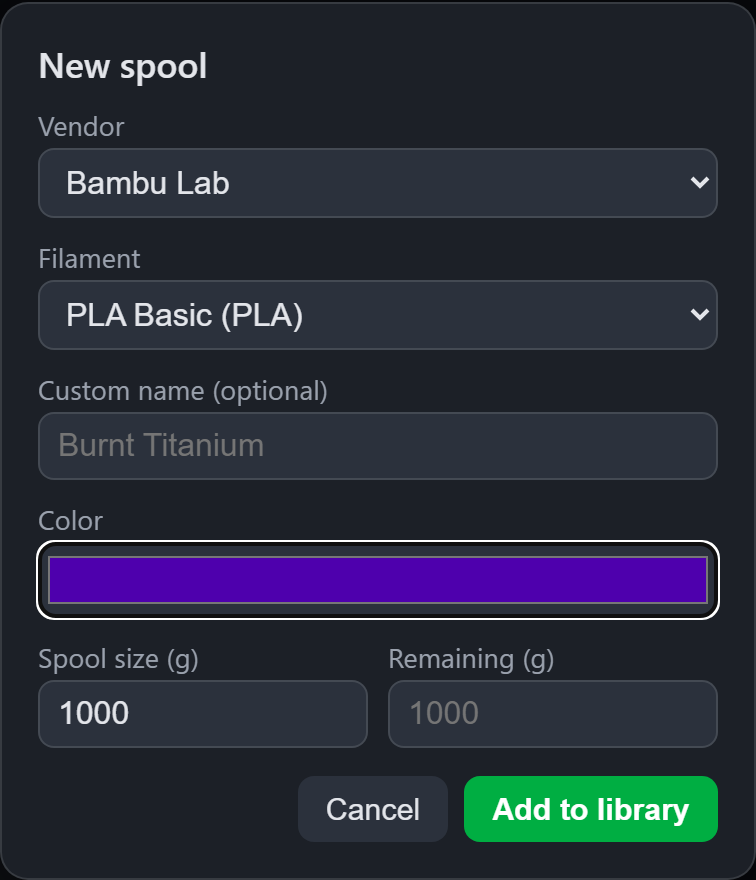
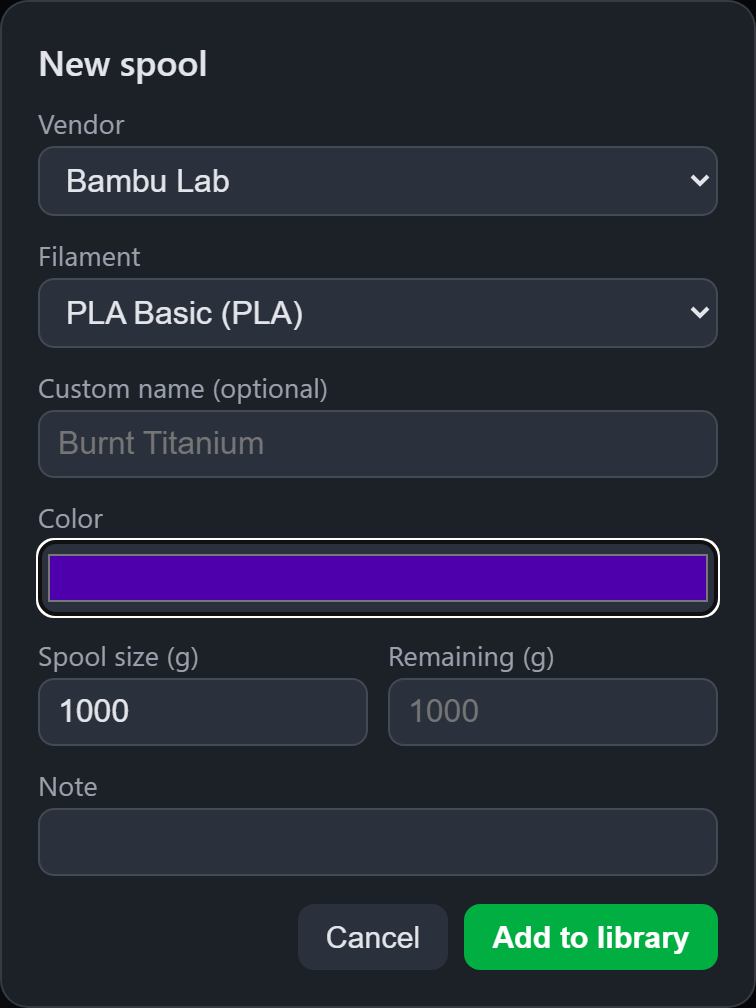
create_spool: accept a note (written right after creation)
The create endpoint 400s on a note field, so the service re-fetches
the library after the POST, picks the newest matching spool id that
did not exist before the create, and writes the note with a minimal
PUT. The card add dialog now shows the note field in create mode too
(it appears as the spool remark in Bambu Studio).

diff --git a/custom_components/bambu_filaments/www/bambu-filaments-card.js b/custom_components/bambu_filaments/www/bambu-filaments-card.js
@@ -508,7 +508,7 @@ class BambuFilamentsCard extends HTMLElement {
             <label>${t.d_total}<input id="f-total" type="number" min="1" value="${isEdit ? (spool.total_g ?? 1000) : 1000}"/></label>
             <label>${t.d_remaining}<input id="f-remaining" type="number" min="0" placeholder="1000" value="${isEdit ? (spool.remaining_g ?? "") : ""}"/></label>
           </div>
-          ${isEdit ? `<label>${t.d_note}<input id="f-note" type="text" value="${esc(spool.note || "")}"/></label>` : ""}
+          <label>${t.d_note}<input id="f-note" type="text" value="${isEdit ? esc(spool.note || "") : ""}"/></label>
           <div class="derr" hidden></div>
           <div class="dbtns">
             ${isEdit ? `<button class="dlg-del">${t.d_delete}</button>` : ""}
@@ -618,6 +618,7 @@ class BambuFilamentsCard extends HTMLElement {
       btn.textContent = t.d_saving;
       try {
         if (!isEdit) {
+          if (val("f-note")) data.note = val("f-note");
           await this._hass.callService("bambu_filaments", "create_spool", data);
         } else {
           // Send only the fields that actually changed (minimal PUT, like

diff --git a/custom_components/bambu_filaments/services.py b/custom_components/bambu_filaments/services.py
@@ -2,6 +2,7 @@
 
 from __future__ import annotations
 
+import logging
 from collections.abc import Iterable
 from typing import Any
 
@@ -24,6 +25,8 @@ SERVICE_UPDATE_SPOOL = "update_spool"
 SERVICE_CREATE_SPOOL = "create_spool"
 SERVICE_DELETE_SPOOL = "delete_spool"
 SERVICE_GET_CATALOG = "get_catalog"
+
+_LOGGER = logging.getLogger(__name__)
 
 # 6-digit hex, optionally with alpha and/or leading '#'.
 COLOR_SCHEMA = vol.All(
@@ -62,6 +65,7 @@ CREATE_SPOOL_SCHEMA = vol.Schema(
         vol.Optional("remaining_g"): vol.All(vol.Coerce(int), vol.Range(min=0, max=20000)),
         vol.Optional("filament_id"): cv.string,
         vol.Optional("display_name"): cv.string,
+        vol.Optional("note"): cv.string,
     }
 )
 DELETE_SPOOL_SCHEMA = vol.Schema({vol.Required("spool_id"): cv.positive_int})
@@ -231,6 +235,7 @@ def async_register_services(hass: HomeAssistant) -> None:
         payload["filamentId"] = filament_id or ""
         if display_name := call.data.get("display_name"):
             payload["displayName"] = display_name
+        known_ids = set((coordinator.data or {}).keys())
         await _cloud_write(
             hass,
             coordinator,
@@ -238,6 +243,36 @@ def async_register_services(hass: HomeAssistant) -> None:
             payload,
             action="Bambu cloud rejected the new spool",
         )
+        if note := call.data.get("note"):
+            # The create endpoint 400s on a note field, so the note is written
+            # with a follow-up PUT onto the just-created spool: re-fetch and
+            # pick the newest matching id we did not know before the create.
+            try:
+                spools = await hass.async_add_executor_job(coordinator.client.get_spools)
+                created = [
+                    s
+                    for s in spools
+                    if isinstance(s.get("id"), int)
+                    and s["id"] not in known_ids
+                    and s.get("filamentVendor") == payload["filamentVendor"]
+                    and s.get("filamentName") == payload["filamentName"]
+                ]
+                if created:
+                    target = max(created, key=lambda s: s["id"])
+                    await hass.async_add_executor_job(
+                        coordinator.client.update_spool,
+                        {
+                            "id": target["id"],
+                            "filamentName": target.get("filamentName") or "",
+                            "note": note,
+                        },
+                    )
+                else:
+                    _LOGGER.warning(
+                        "Spool was created but not found on re-fetch; note not set"
+                    )
+            except BambuCloudError as err:
+                _LOGGER.warning("Spool was created but setting its note failed: %s", err)
         await coordinator.async_request_refresh()
 
     async def handle_update_spool(call: ServiceCall) -> None:

diff --git a/tools/screenshots/take_shots.py b/tools/screenshots/take_shots.py
@@ -51,6 +51,7 @@ with sync_playwright() as pw:
     page.locator("#f-cmaterial").fill("PLA")
     page.locator("#f-cname").fill("PLA Pro")
     page.locator("#f-display").fill("Burnt Titanium")
+    page.locator("#f-note").fill("Burnt Titanium")
     page.wait_for_timeout(100)
     page.locator(".dlg").screenshot(path=str(OUT / "card-add-custom.png"))
     print("saved card-add-custom.png")

diff --git a/README.md b/README.md
@@ -85,7 +85,7 @@ Open the integration's *Configure* dialog:
 | `bambu_filaments.set_note` | `spool_id`, `note` | Set a spool's note text |
 | `bambu_filaments.set_filament_id` | `spool_id`, `filament_id` | Link a spool to a Bambu slicer profile (e.g. `GFA00` = Bambu PLA Basic, `GFL99` = Generic PLA) so Bambu Studio can assign it with matching print settings; `""` unlinks |
 | `bambu_filaments.update_spool` | `spool_id` + any of `vendor`, `material`, `name`, `color`, `total_g`, `remaining_g`, `note`, `filament_id`, `display_name` | Change fields of an existing spool — only the provided fields are written; empty strings clear custom name/note/profile |
-| `bambu_filaments.create_spool` | `vendor`, `material`, `name`, `color`, `total_g`, `remaining_g`, `filament_id`, `display_name` | Add a new spool to the cloud library (pass `filament_id: ""` for custom/third-party brands) |
+| `bambu_filaments.create_spool` | `vendor`, `material`, `name`, `color`, `total_g`, `remaining_g`, `filament_id`, `display_name`, `note` | Add a new spool to the cloud library (pass `filament_id: ""` for custom/third-party brands; the note is written right after creation) |
 | `bambu_filaments.delete_spool` | `spool_id` | Delete a spool from the cloud library |
 | `bambu_filaments.get_catalog` | – | Returns the vendor/product combinations the cloud accepts (response data) |
 
